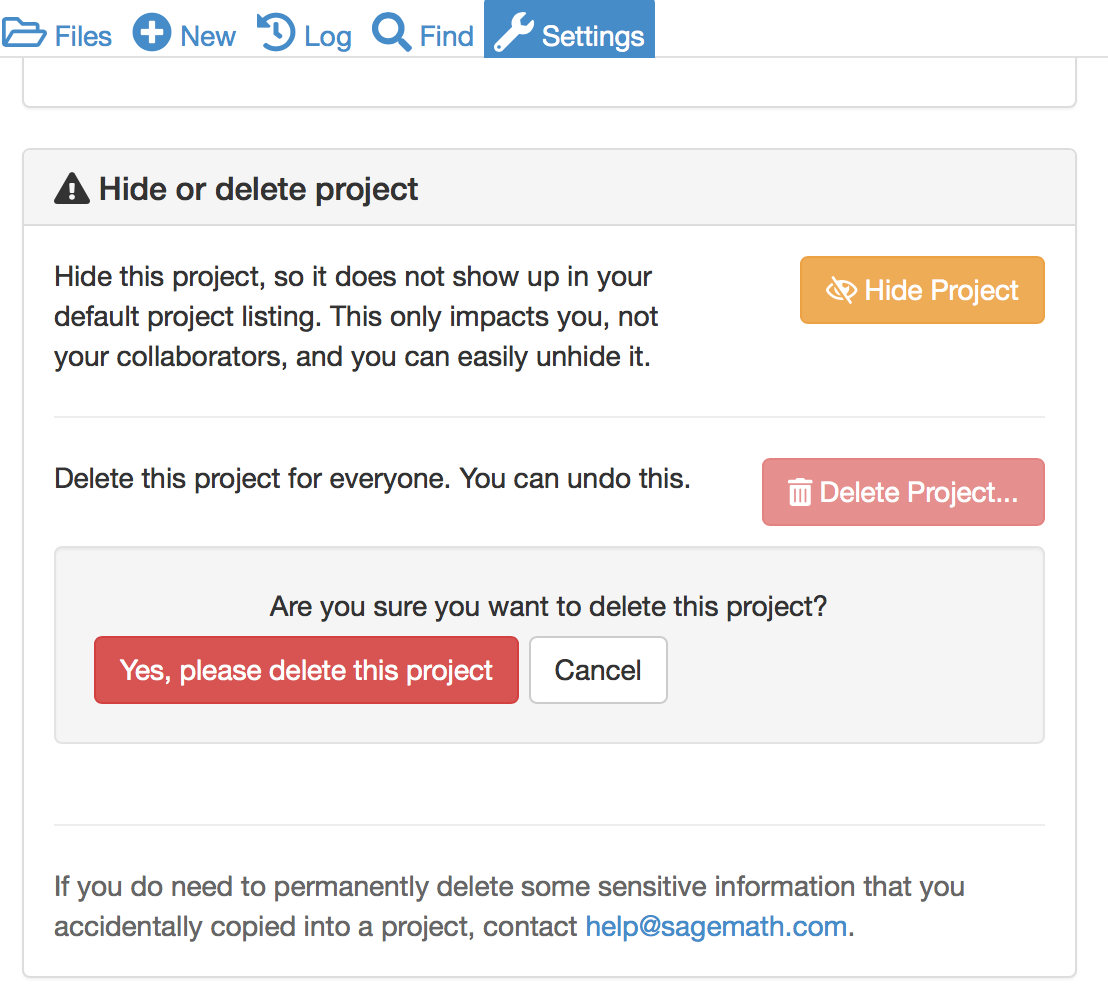
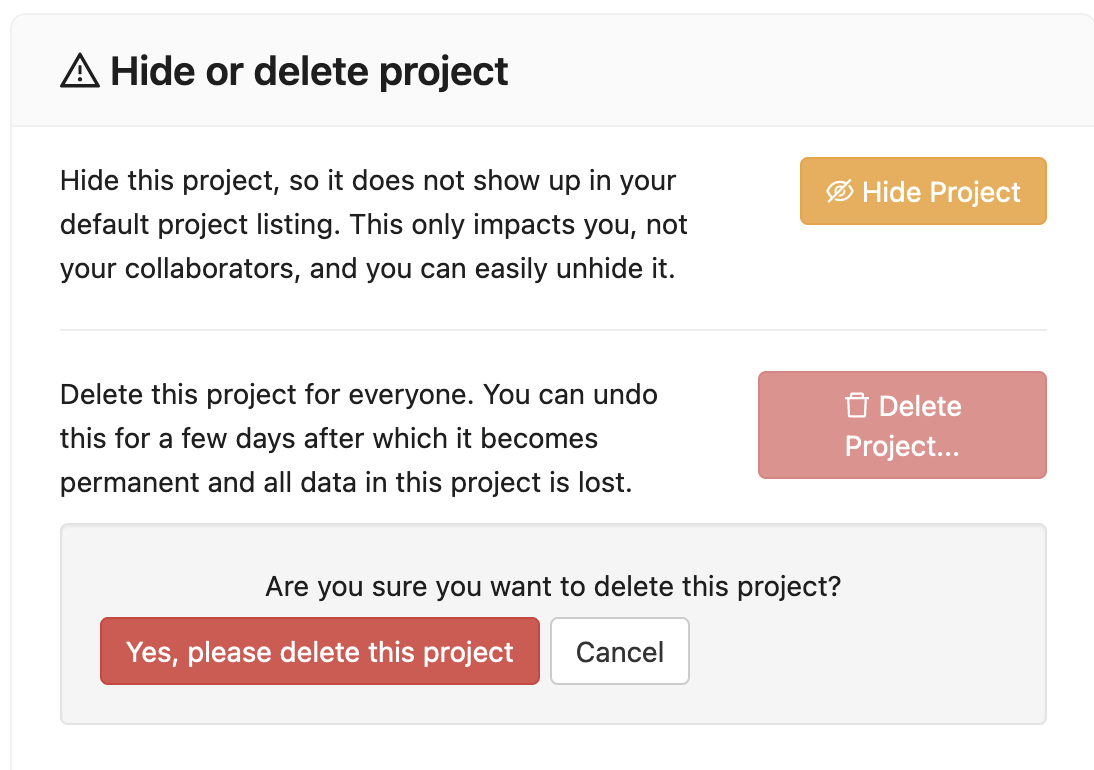
project deletion docs updated

diff --git a/source/project-settings.rst b/source/project-settings.rst
@@ -178,7 +178,7 @@ Next in the Project Settings window is the section for hidden and deleted projec
 Hidden vs. Deleted projects
 ***************************
 
-If you delete a project, then you delete it for everyone---for all your collaborators. The good news is that this can be undone. Deleting a project removes upgrades from any subscriptions or course packages.
+If you delete a project, then you delete it for everyone---for all your collaborators. Deleting a project removes upgrades from any subscriptions or course packages.
 
 Alternatively, if you hide a project, then you will not see it in your projects listing, but your collaborators will still see it in their listings.
 
@@ -207,9 +207,11 @@ Clicking `Unhide Project` instantly makes the project visible in the normal proj
 Deleting a project
 ******************
 
-**No files are actually deleted when a project is deleted.**
-Only visibility of the project in the project list is changed.
-If you need to permanently delete information that you
+When you delete a project,
+initially only the visibility of the project in the project list is changed.
+**You fully lose access to the project after 30 days.** We completely remove all users from the project, and there's no way for them to get their work back.
+
+If you urgently need to permanently delete information that you
 accidentally copied into a project, contact help@cocalc.com
 
 If you click `Delete Project`, the button changes:
